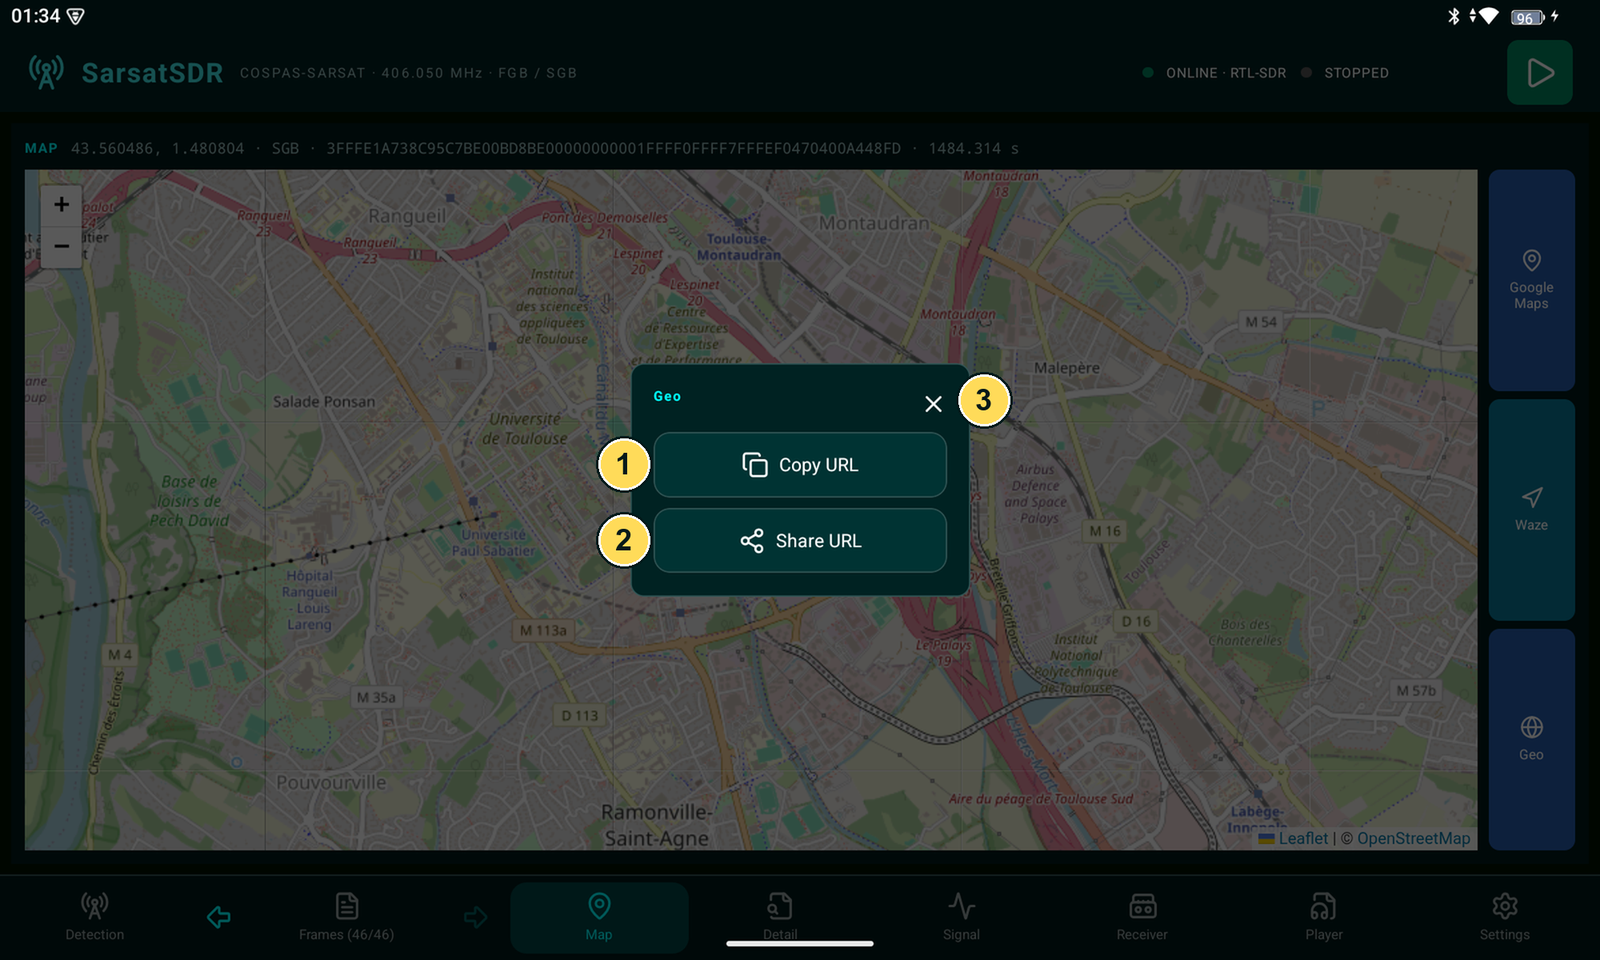
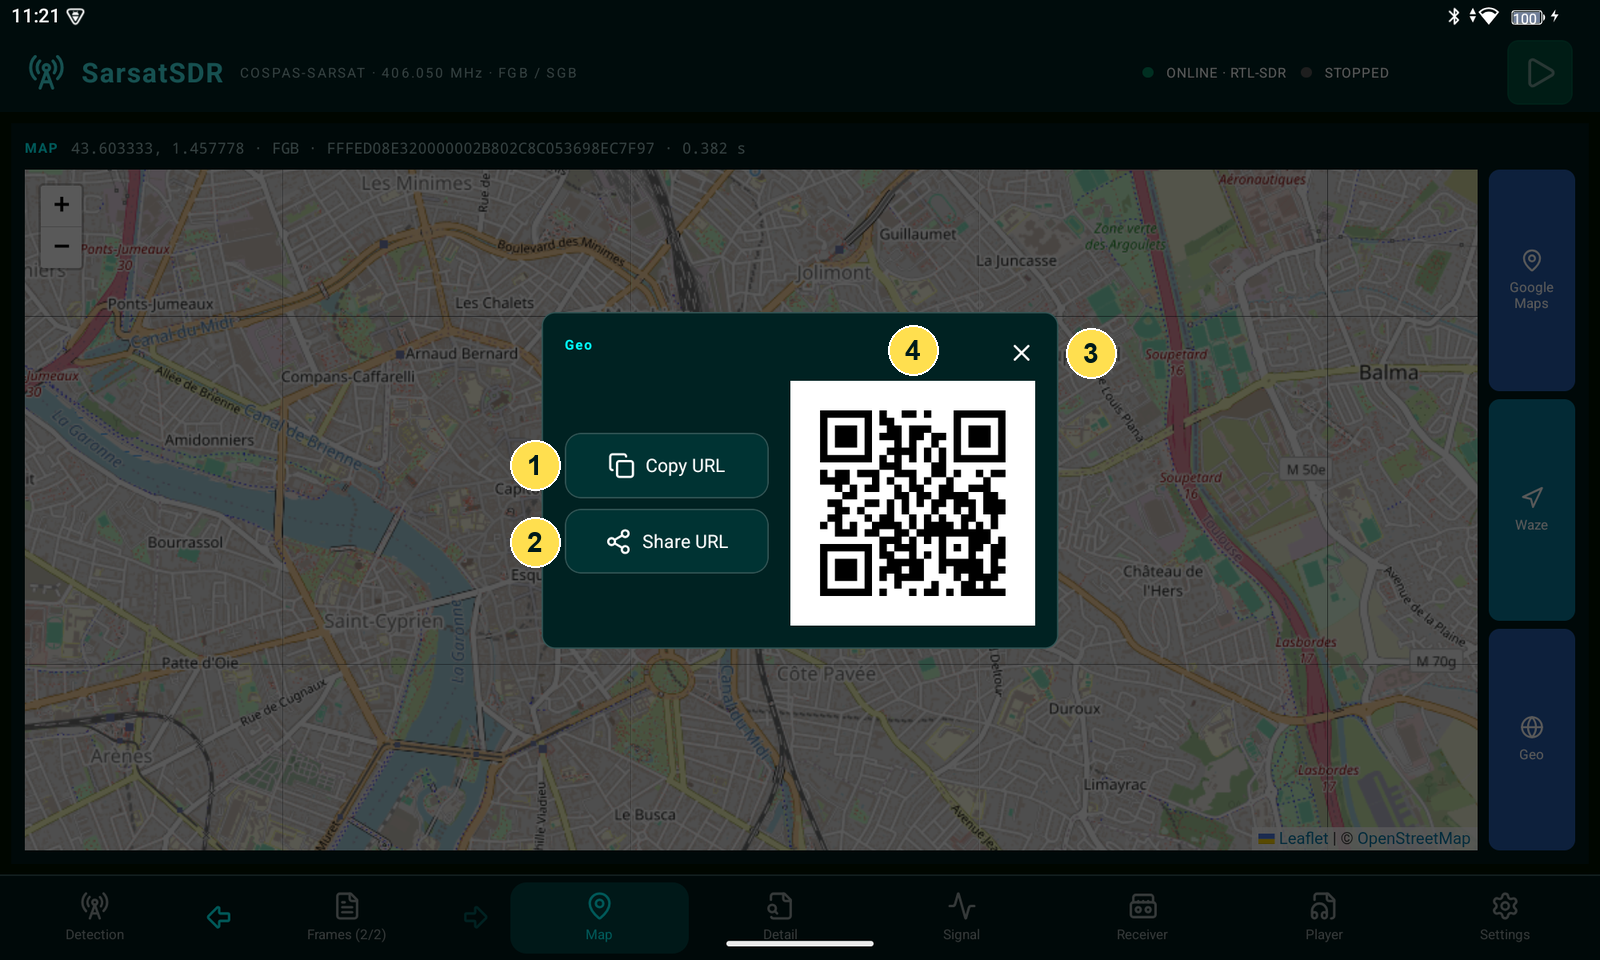
Added qr code.

diff --git a/apps/mobile/src/App.tsx b/apps/mobile/src/App.tsx
@@ -19,12 +19,13 @@
  */
 
 import { memo, useCallback, useEffect, useLayoutEffect, useMemo, useRef, useState, type ComponentRef, type ReactNode } from "react";
-import { Animated, Easing, FlatList, Keyboard, KeyboardAvoidingView, Linking, Modal, PanResponder, Platform, Pressable, ScrollView, Share, StyleSheet, Text, TextInput, View, type StyleProp,
+import { Animated, Easing, FlatList, Keyboard, KeyboardAvoidingView, Linking, Modal, PanResponder, Platform, Pressable, ScrollView, Share, StyleSheet, Text, TextInput, useWindowDimensions, View, type StyleProp,
   type TextStyle, type ViewStyle } from "react-native";
 import { Picker } from "@react-native-picker/picker";
 import Slider from "@react-native-community/slider";
 import * as Clipboard from "expo-clipboard";
-import Svg, { G, Path, Polyline, Text as SvgText } from "react-native-svg";
+import Svg, { G, Path, Polyline, SvgXml, Text as SvgText } from "react-native-svg";
+import qrcode from "qrcode-generator";
 import { Activity, ChevronLeft, ChevronRight, Download, Eraser, FileAudio, FileSearch, FileText, FlaskConical, FolderClock, FolderOpen, Globe, MapPin,
   Navigation, Play, BoomBox, Radio, RadioTower, RefreshCw, Settings as SettingsIcon, Square, Usb, type LucideIcon,
   ArrowBigRight,
@@ -49,6 +50,10 @@ import { FrameSessions, formatSessionDate, localSessionDate, sessionExport, type
 import { createSessionStorage, saveJson } from "./session-storage";
 import { playbackProgress } from "./playback-progress";
 import appConfig from "../app.json";
+
+qrcode.stringToBytes = value => Array.from(
+  encodeURIComponent(value).replace(/%([0-9A-F]{2})/g, (_, hex: string) => String.fromCharCode(parseInt(hex, 16))),
+  byte => byte.charCodeAt(0));
 
 type Action = { label: string; icon: LucideIcon; run: () => void; kind?: "stop" };
 function AboutPopup({ close }: { close: () => void }) {
@@ -81,17 +86,48 @@ function AboutPopup({ close }: { close: () => void }) {
     </View>
   </Modal>;
 }
-function ActionPopup({ title, actions, close }: { title: string; actions: Action[]; close: () => void }) {
+function QrCode({ value, size }: { value: string; size: number }) {
+  const xml = useMemo(() => {
+    const code = qrcode(0, "M");
+    code.addData(value);
+    code.make();
+    return code.createSvgTag({ cellSize: 4, margin: 16, scalable: true });
+  }, [value]);
+  return <View accessibilityRole="image" accessibilityLabel={`QR code: ${value}`}>
+    <SvgXml xml={xml} width={size} height={size} />
+  </View>;
+}
+function ActionPopup({ title, actions, close, qrValues }: {
+  title: string; actions: Action[]; close: () => void; qrValues?: string[];
+}) {
+  const [qrIndex, setQrIndex] = useState(0);
+  const { width } = useWindowDimensions();
+  const qrSize = Math.min(180, width * .32);
   return <Modal transparent animationType="fade" onRequestClose={close}>
     <View style={s.popupBackdrop}>
       <Pressable style={StyleSheet.absoluteFill} onPress={close} accessible={false} />
-      <View style={s.popup} accessibilityViewIsModal>
+      <View style={[s.popup, qrValues && { width: qrValues.length > 1 ? 600 : 380 }]} accessibilityViewIsModal>
         <View style={s.popupHeader}><Text style={s.h3}>{title}</Text>
           <Pressable accessibilityRole="button" accessibilityLabel="Close popup" onPress={close} hitSlop={8}>
             <X size={20} color="#fff" />
           </Pressable>
         </View>
-        {actions.map(({ label, icon, run, kind }) => <Button key={label} title={label} icon={icon} kind={kind} onPress={() => { close(); run(); }} />)}
+        <View style={qrValues && [s.qrPopupContent, qrValues.length > 1 && { gap: 4 }]}>
+          <View style={[{ gap: 8 }, qrValues && { flex: 1, minWidth: 0 }]}>
+            {actions.map(({ label, icon, run, kind }, index) => <View key={label} style={s.qrActionRow}>
+              <Button title={label} icon={icon} kind={kind} style={{ flex: 1 }}
+                onPress={() => { close(); run(); }} />
+              {qrValues && qrValues.length > 1 && <Pressable accessibilityRole="radio"
+                accessibilityLabel={`QR code: ${label}`} aria-checked={qrIndex === index}
+                onPress={() => setQrIndex(index)} style={s.qrRadio}>
+                <View style={[s.box, { borderRadius: 10, alignItems: "center", justifyContent: "center" }]}>
+                  {qrIndex === index && <View style={s.qrRadioDot} />}
+                </View>
+              </Pressable>}
+            </View>)}
+          </View>
+          {qrValues && <QrCode value={qrValues[qrIndex]} size={qrSize} />}
+        </View>
       </View>
     </View>
   </Modal>;
@@ -613,6 +649,7 @@ function CompactFrameDetails({ entry }: { entry: Entry }) {
         </View>
         {copyError !== "" && <Text accessibilityRole="alert" style={s.errorText}>{copyError}</Text>}
         {copyOpen && summary.position && <ActionPopup title="Copy coordinates" close={() => setCopyOpen(false)}
+          qrValues={[summary.position.decimal, summary.position.dms, ...(summary.position.locator ? [summary.position.locator] : [])]}
           actions={[summary.position.decimal, summary.position.dms, ...(summary.position.locator ? [summary.position.locator] : [])]
             .map(value => ({ label: value, icon: Copy, run: () => { void copyText(value).catch(reason => setCopyError(String(reason))); } }))} />}
         {!!summary.emergency.length && <Text style={s.summaryLine}><Text style={[s.summaryLabel, s.emergencyLabel]}>Emergency: </Text>{formatFieldFrequencies(summary.emergency.join(" · "))}</Text>}
@@ -726,7 +763,7 @@ const MapPanel = memo(function MapPanel({ entry, compact = false }: { entry: Ent
       </Text>}
     </View>
     {linkError !== "" && <Text accessibilityRole="alert" style={s.errorText}>{linkError}</Text>}
-    {link && <ActionPopup title={link.name} close={() => setLink(null)} actions={[
+    {link && <ActionPopup title={link.name} close={() => setLink(null)} qrValues={[link.url]} actions={[
       { label: "Copy URL", icon: Copy, run: () => { void copyText(link.url).catch(report); } },
       { label: "Share URL", icon: Share2, run: () => { void shareLink(link.name, link.url).catch(report); } },
     ]} />}
@@ -1464,6 +1501,10 @@ const s = StyleSheet.create({
   popup: { minWidth: 250, maxWidth: "90%", gap: 8, padding: 16, borderRadius: 10, borderWidth: 1,
     borderColor: "#335555", backgroundColor: "#002222" },
   popupHeader: { flexDirection: "row", alignItems: "center", justifyContent: "space-between", gap: 16 },
+  qrPopupContent: { flexDirection: "row", alignItems: "center", justifyContent: "space-between", gap: 16 },
+  qrActionRow: { flexDirection: "row", alignItems: "center" },
+  qrRadio: { width: 44, minHeight: 44, marginLeft: 24, alignItems: "center", justifyContent: "center" },
+  qrRadioDot: { width: 10, height: 10, borderRadius: 5, backgroundColor: "#3fe6e6" },
   main: { flex: 1, backgroundColor: "#001000" },
   titlebar: { flexDirection: "row", justifyContent: "space-between", alignItems: "center", backgroundColor: "#002222", minHeight: 58, paddingVertical: 5, paddingHorizontal: 20 },
   brand: { flexDirection: "row", flexWrap: "wrap", gap: 12, alignItems: "center", flexShrink: 1 },
@@ -1523,7 +1564,7 @@ const s = StyleSheet.create({
   navArrow: { minWidth: 48, minHeight: 48, alignItems: "center", justifyContent: "center" },
   row: { flexDirection: "row", flexWrap: "wrap", alignItems: "center", gap: 10 },
   button: { flexDirection: "row", gap: 8, borderWidth: 1, borderColor: "#335555", borderRadius: 12, paddingVertical: 10, paddingHorizontal: 16, backgroundColor: "#003333", minHeight: 48, justifyContent: "center", alignItems: "center" },
-  buttonText: { color: "#ffffff", fontSize: 13 },
+  buttonText: { color: "#ffffff", fontSize: 13, flexShrink: 1 },
   iconButton: { width: 48, height: 48, minHeight: 48, borderRadius: 8, paddingHorizontal: 0, paddingVertical: 0 },
   primary: { backgroundColor: "#00885f", borderColor: "#00885f" },
   check: { flexDirection: "row", alignItems: "center", gap: 7, minHeight: 40 },

diff --git a/docs/README.md b/docs/README.md
@@ -75,7 +75,7 @@ messages, selected frame, and map visible together.
 <li><strong>Spectrum and detection indicators.</strong> Frequency runs horizontally; level runs vertically. FGB candidate markers show acquisition attempts, not confirmed decodes. The FGB/SGB indicators report new detections.</li>
 <li><strong>Waterfall.</strong> The newest signal history appears at the top and moves down. Brighter colors indicate stronger levels relative to the selected display settings.</li>
 <li><strong>Received frames.</strong> Tap a row to select it. The highlight identifies the active message. The list includes generation, type, mode, frequency, locator when available, and BCH status.</li>
-<li><strong>Current frame.</strong> The compact summary includes beacon identification, mode, country, reported position, and error-correction status. When a position exists, the copy button offers decimal coordinates, degrees/minutes/seconds, and locator.</li>
+<li><strong>Current frame.</strong> The compact summary includes beacon identification, mode, country, reported position, and error-correction status. When a position exists, the copy button opens the <a href="#copy-coordinates">coordinate copy/QR popup</a> with decimal, degrees/minutes/seconds, and locator formats.</li>
 <li><strong>Map.</strong> Shows the selected message's position, or the most recent available position when the selection has none. Navigation buttons sit on its right edge.</li>
 <li><strong>Bottom navigation.</strong> Switch tabs without stopping acquisition. Arrows beside Frames select the previous/next visible message; Frames (x/y) gives the selected position within the visible list.</li>
 </ol>
@@ -86,6 +86,32 @@ messages, selected frame, and map visible together.
 Each new unfiltered frame becomes the active selection. When filters hide some
 messages, the frame-list heading can display visible/total counts.
 Filtering does not delete stored messages.
+
+<a id="copy-coordinates"></a>
+
+### 📲 Copy coordinates or scan a QR code
+
+Tap the **copy icon** beside the reported position in Detection's current-frame
+summary. The popup lets you copy coordinates locally or transfer them to another
+device by scanning the QR code.
+
+<table>
+<tr>
+<td width="60%" valign="top"><a href="images/coordinates-actions-guide.png"><img src="images/coordinates-actions-guide.png" alt="Coordinate popup with three copy buttons, three aligned radio buttons grouped next to the QR code, decimal selected, and four numbered controls" width="100%"></a></td>
+<td valign="top">
+<ol>
+<li><strong>Copy a format.</strong> The three buttons copy decimal coordinates, degrees/minutes/seconds, or the Maidenhead locator, then close the popup. Each copies its own displayed text, independently of the QR selection.</li>
+<li><strong>Choose the QR format.</strong> The radio buttons sit closer to the QR code, with extra space separating them from the copy buttons. Each stays aligned with its corresponding format. Selecting one updates only the QR code, without copying or closing the popup. Decimal is selected whenever the popup opens.</li>
+<li><strong>Scan coordinates.</strong> The QR code contains the exact text of the selected format. Point another device's camera or QR reader at it to retrieve that text.</li>
+<li><strong>Close.</strong> Dismisses the popup without copying coordinates.</li>
+</ol>
+</td>
+</tr>
+</table>
+
+Coordinate QR codes contain text, not a navigation link. To transfer a link that
+opens a map application, use the [map-link popup](#copy-or-share-a-map-link) below.
+QR codes are generated locally, without Internet access.
 
 ### 🌊 Watch the waterfall
 
@@ -235,26 +261,32 @@ position from another frame. If no decoded position exists, it displays
 **No decoded beacon position**. The map uses OpenStreetMap tiles and needs
 Internet access to load them.
 
+<a id="copy-or-share-a-map-link"></a>
+
 ### 🔗 Copy or share a map link
 
 Long-press **any** of the three navigation buttons instead of tapping it.
 This opens the same action menu for that button's URL.
+The QR code to the right of Copy URL and Share URL contains that exact link,
+ready to scan on another device. QR codes are generated locally and need no Internet access.
 
 <table>
 <tr>
-<td width="60%" valign="top"><a href="images/map-actions-guide.png"><img src="images/map-actions-guide.png" alt="Geo long-press menu with three numbered controls" width="100%"></a></td>
+<td width="60%" valign="top"><a href="images/map-actions-guide.png"><img src="images/map-actions-guide.png" alt="Geo long-press popup with Copy URL and Share URL on the left, its QR code on the right, and four numbered controls" width="100%"></a></td>
 <td valign="top">
 <ol>
 <li><strong>Copy URL.</strong> Copies the selected navigation link to the clipboard.</li>
 <li><strong>Share URL.</strong> Opens Android sharing for that link.</li>
 <li><strong>Close.</strong> Dismisses the menu without opening or sharing the link.</li>
+<li><strong>Scan the link.</strong> The QR code contains the same URL as Copy URL and Share URL. Scan it on another device to retrieve or open that navigation link. It also works for the Google Maps and Waze buttons.</li>
 </ol>
 </td>
 </tr>
 </table>
 
-For example, Geo produces a link such as `geo:43.560486,1.480804`.
-Link availability depends on the installed applications.
+For example, the screenshot's Geo QR code contains `geo:43.603333,1.457778`.
+Link availability depends on the installed applications. Opening a scanned web
+link may still require Internet access.
 
 <a id="detail"></a>
 
@@ -440,7 +472,7 @@ The single-line **Version** strip at the top of Settings, before Filtering,
 shows the installed application version. Include it when reporting a problem
 or comparing builds. On the right, the **circled question-mark** button opens About SarsatSDR, with author credits,
 links to this detailed guide and the full license, and the warranty and liability
-disclaimer. **Support the project**, marked with a coffee-cup icon, opens Frédéric BORRY's PayPal page in your
+disclaimer. **Support the project**, marked with a coffee-cup icon, opens F4JRX's PayPal page in your
 browser; supporting the project is optional and the application is free to use.
 
 ![The single-line Version strip at the beginning of Settings](images/settings-version.png)
